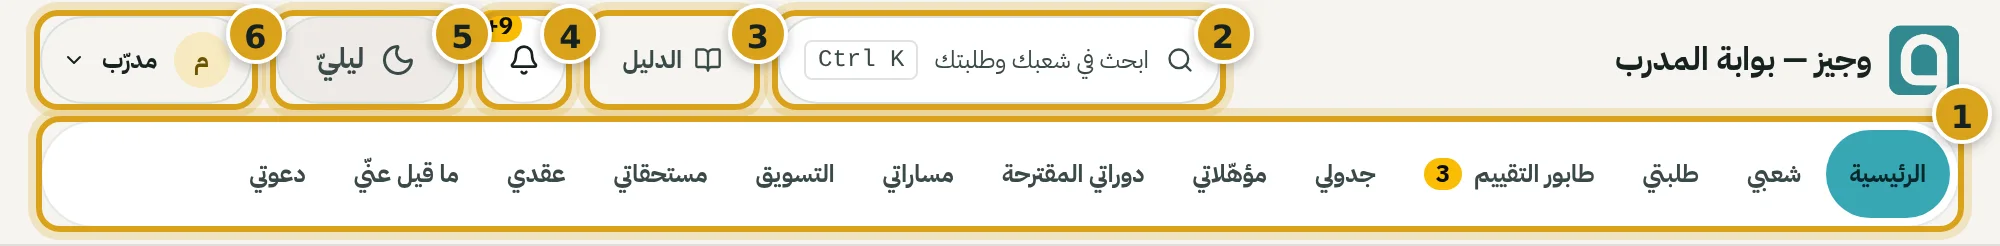
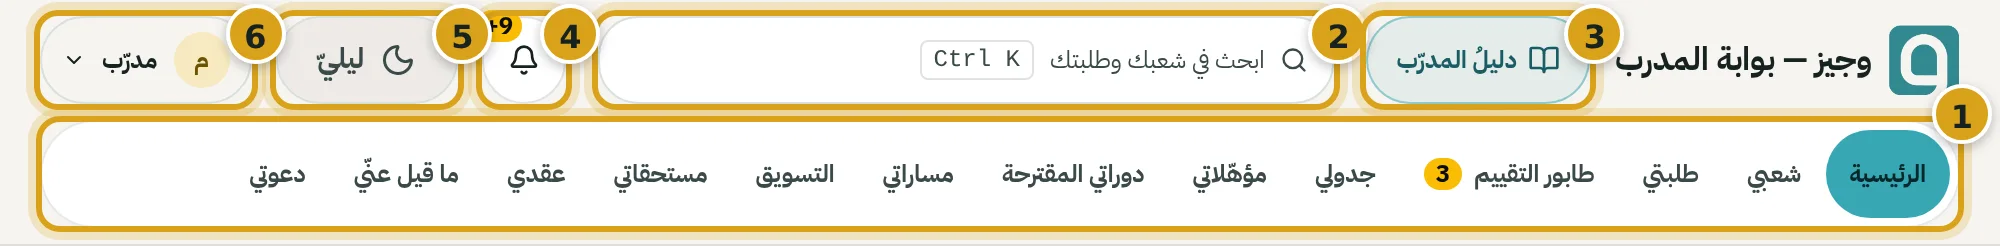
حجزُ المساعدة داخل الشعبة، والدليلُ بجانب اسم البوّابة والبحثُ في الوسط
قرارُ صاحب المنصّة (٣ أكتوبر ٢٠٢٦): «A» — زرُّ حجز جلسةٍ داخل كلّ شعبةٍ
في «شعبي»، و«أوضح مكانَ الدليل، وغيّر مكانَ البحث إلى مكانٍ مناسبٍ احترافيّ».

· CohortWorkspace: شريطُ «تحتاج مساعدةً في تعبئة شعبتك؟» وزرُّ «احجزْ جلسةَ
  تهيئة» ما دامت الخطّةُ بيد المدرّب (مسوّدةً أو مردودةً بملاحظات).
· TrainerLayout: «دليلُ المدرّب» حبّةٌ بارزةٌ بجانب اسم البوّابة، والبحثُ
  حقلٌ في وسط الرأس، ثمّ الجرسُ والمظهرُ والحساب.
· الدليلُ: نصُّ الرأس ومواضعُ الحجز، ولقطاتُه الخمسُ أُعيد التقاطُها.
· حارسان جديدان، رُئي كلٌّ منهما يسقط.

لا تغيّرَ في رقمٍ يُقبض أو يُخصم.

Claude-Session: https://claude.ai/code/session_01KvWc79RrumheVsskoZYsA3

Changed region(s): [[0.279, 0.0, 0.837, 0.4837], [0.279, 0.0285, 0.31, 0.0854]]

diff --git a/src/pages/trainer/TrainerLayout.tsx b/src/pages/trainer/TrainerLayout.tsx
@@ -12,7 +12,6 @@ import { useCallback, useEffect, useRef, useState } from "react";
 import { loadMyPortals } from "@/services/portals";
 import { apiGet } from "@/services/api";
 import { GRADING_CHANGED } from "@/services/grading-signal";
-import Button from "@/components/ui/Button";
 import { TRAINER_GUIDE_PATH } from "@/application/trainer/trainer-guide";
 
 /* ما يقرؤه الإطارُ من `/api/trainer/me` — لا الملفُّ كلُّه.
@@ -210,10 +209,35 @@ export default function TrainerLayout({ children, title }: { children: React.Rea
             صار الشريطُ يقيس ويعرض ما وسعه (٢٧ سبتمبر ٢٠٢٦) — وتفصيلُه في
             `ui/PortalTabs`، وهو نفسُه في بوّابتَي المستشار والمتعلّم. */}
         <div className="mx-auto flex max-w-6xl flex-wrap items-center justify-between gap-y-2 px-5 py-2">
-          <Link to="/" className="flex shrink-0 items-center gap-2">
-            <img src="/logo-mark.png" alt="علامة أكاديمية وجيز" className="h-9 w-9 shrink-0 object-contain" />
-            <span className="hidden font-black sm:block">وجيز — بوابة المدرب</span>
-          </Link>
+          {/* ═══ الدليلُ جنبَ الاسم، والبحثُ في وسط الرأس (٣ أكتوبر ٢٠٢٦) ═══
+
+              قولُ صاحب المنصّة: «أوضِحْ مكانَ الدليل، وغيِّر مكانَ البحث إلى مكانٍ
+              مناسبٍ احترافيّ». كان الدليلُ زرّا شبحيّا بين البحث والجرس يُقرأ أداةً
+              من الأدوات، والبحثُ قبله يسبقه إلى العين. فصار:
+              · **الدليلُ** شارةً ملوّنةً باسمها كاملا («دليلُ المدرّب») لصقَ اسم
+                البوّابة — أوّلَ ما يُرى، وعلى الهاتف كذلك. وليست ذهبيّة: الذهبيُّ
+                فعلُ الصفحة (`one-primary-per-screen`).
+              · **والبحثُ** حقلا في وسط الرأس بين الاسم والأدوات — موضعُه في
+                المحرّرات والبوّابات التي يعرفها الناس — يتّسع لما وسعه. */}
+          <div className="flex shrink-0 items-center gap-3">
+            <Link to="/" className="flex shrink-0 items-center gap-2">
+              <img src="/logo-mark.png" alt="علامة أكاديمية وجيز" className="h-9 w-9 shrink-0 object-contain" />
+              <span className="hidden font-black sm:block">وجيز — بوابة المدرب</span>
+            </Link>
+            {/* ويُفتح في لسانٍ آخر: الدليلُ شرحٌ يُقرأ بجانب البوّابة لا بدلا منها،
+                فلا يغادر المدرّبُ شاشتَه ليقرأ عنها (٣٠ سبتمبر ٢٠٢٦). */}
+            <a href={TRAINER_GUIDE_PATH} target="_blank" rel="noopener" aria-label="دليلُ المدرّب — يُفتح في لسانٍ جديد"
+              className="inline-flex shrink-0 items-center gap-1.5 rounded-full border border-teal/50 bg-teal/10 px-3.5 py-1.5 text-fine font-black text-teal-light-ink transition hover:border-teal hover:bg-teal/20 focus-visible:outline-none focus-visible:ring-2 focus-visible:ring-teal focus-visible:ring-offset-2 focus-visible:ring-offset-paper">
+              <BookOpen className="h-4 w-4 shrink-0" aria-hidden="true" />
+              <span>دليلُ المدرّب</span>
+            </a>
+          </div>
+          {/* بحث سريع Ctrl+K — لجلسة المدرب الحقيقية فقط: يضرب نقطة الخادم المقيدة بإسناداته */}
+          {realTrainer && (
+            <div className="hidden min-w-0 flex-1 justify-center px-4 md:flex">
+              <SearchChip hintAr="ابحث في شعبك وطلبتك" className="w-full max-w-sm" />
+            </div>
+          )}
           <PortalTabs
             tabs={tabs}
             label="تبويبات بوّابة المدرّب"
@@ -221,18 +245,6 @@ export default function TrainerLayout({ children, title }: { children: React.Rea
             className="order-last w-full"
           />
           <div className="flex items-center gap-3">
-            {/* بحث سريع Ctrl+K — لجلسة المدرب الحقيقية فقط: يضرب نقطة الخادم المقيدة بإسناداته */}
-            {realTrainer && (
-              <SearchChip hintAr="ابحث في شعبك وطلبتك" />
-            )}
-            {/* ودليلُ المدرّب في الإطار لا في صفحةٍ واحدة (٢٩ سبتمبر ٢٠٢٦): يصله رابطُه
-                في رسالة اعتماد التوقيع مرّةً، ويحتاجه كلّما وقف عند شاشة. ونبرتُه
-                هادئة — الذهبيُّ فعلُ الصفحة، وهذا أداةٌ في الإطار. */}
-            {/* ويُفتح في لسانٍ آخر: الدليلُ شرحٌ يُقرأ بجانب البوّابة لا بدلا منها،
-                فلا يغادر المدرّبُ شاشتَه ليقرأ عنها (٣٠ سبتمبر ٢٠٢٦). */}
-            <Button as="a" href={TRAINER_GUIDE_PATH} target="_blank" rel="noopener" tone="ghost" size="sm" icon={BookOpen} aria-label="دليلُ المدرّب — يُفتح في لسانٍ جديد">
-              <span>الدليل</span>
-            </Button>
             <NotificationBell audience="trainer" />
             <ThemeToggle />
             <StaffAccountMenu user={user} />

diff --git a/src/data/trainer-guide/content.ts b/src/data/trainer-guide/content.ts
@@ -61,7 +61,7 @@ export const GUIDE_SECTIONS: GuideSection[] = [
         kind: 'steps',
         items: [
           { text: 'ادخل بالبريد نفسِه الذي وقّعتَ به العقد، ومن أيّ صفحةٍ في الموقع تصل إلى [بوّابتك](/trainer).', detail: 'إن كانت صفحةُ البوّابة مفتوحةً عندك قبل الاعتماد فأعِد تحميلَها مرّةً واحدة.' },
-          { text: 'في أعلى كلّ صفحةٍ شريطُ التبويبات، ثمّ البحثُ والدليلُ والإشعاراتُ والمظهرُ وقائمةُ حسابك.' },
+          { text: 'في أعلى كلّ صفحةٍ اسمُ البوّابة وبجانبه هذا الدليل، ثمّ البحثُ في الوسط، ثمّ الإشعاراتُ والمظهرُ وقائمةُ حسابك — وتحتها شريطُ التبويبات.' },
           { text: 'وفوق عنوان كلّ صفحةٍ شريطُ مهلتك ما دمتَ في طور الإعداد — تفصيلُه في [خمسة أيّامك الأولى](#materials).' },
         ],
       },
@@ -108,7 +108,7 @@ export const GUIDE_SECTIONS: GuideSection[] = [
           { text: 'افتح «مؤهّلاتي». تحت «دوراتُك قيد الإعداد» كلُّ دورةٍ اخترناها لك، ولكلٍّ زرّان: «اقبلها وابدأ إعدادها» أو «اعتذرْ عنها».', detail: 'الاعتذارُ يطلب سببا قصيرا يقرؤه من اختار لك الدورة، ولا يُحسَب عليك.' },
           { text: 'حين تقبل دورةً تُنشأ لها شعبةُ إعدادٍ في «شعبي» باسم الدورة — مثلا «اسمُ الدورة — شعبة ١» — وأنت مدرّبُها. افتحها من زرّ «افتح شعبتَها في «شعبي»».', detail: 'وإن كنتَ كتبتَ موادَّ لها في «مؤهّلاتي» قبل ٢ أكتوبر ٢٠٢٦ وجدتَها منقولةً إليها: محاورَك ورابطَك ومصادرَك ومهمّتَك.' },
           { text: 'عبّئ الشعبةَ بخطواتها الستّ — كما في [الشعبة من الداخل](#workspace) — ثمّ أرسلها من خطوتها الأخيرة.' },
-          { text: 'إن أردت من يساعدك في ترتيب محاورك فاحجز جلسةَ التهيئة من «مؤهّلاتي» أو من [آخر هذا الدليل](#help).', detail: 'حضورُها حقٌّ لك لا التزامٌ عليك، ولا يوقف مهلتَك ولا يمدّها.' },
+          { text: 'إن أردت من يساعدك في ترتيب محاورك فاحجز جلسةَ التهيئة من داخل شعبتك نفسِها، أو من «مؤهّلاتي»، أو من [آخر هذا الدليل](#help).', detail: 'حضورُها حقٌّ لك لا التزامٌ عليك، ولا يوقف مهلتَك ولا يمدّها.' },
           { text: 'حين ترسل آخرَ شعبةٍ تتجمّد مهلتُك بنفسها — لا زرَّ تضغطه — ولا يُحسب عليك وقتُ مراجعتنا.' },
         ],
       },

diff --git a/src/pages/trainer/CohortWorkspace.tsx b/src/pages/trainer/CohortWorkspace.tsx
@@ -49,7 +49,7 @@
 import { Fragment, useCallback, useEffect, useRef, useState } from "react";
 import { Link, useParams } from "react-router";
 import {
-  ArrowLeft, ArrowRight, BookMarked, BookOpen, CalendarDays, Check, ChevronDown, ChevronUp, ClipboardCheck, FileText, GraduationCap, Film, IdCard, Link2, Loader2, Lock, Send, Sparkles,
+  ArrowLeft, ArrowRight, BookMarked, BookOpen, CalendarDays, CalendarPlus, Check, ChevronDown, ChevronUp, ClipboardCheck, FileText, GraduationCap, Film, IdCard, Link2, Loader2, Lock, Send, Sparkles,
 } from "lucide-react";
 import TrainerLayout from "./TrainerLayout";
 import TrainerSchedule from "./TrainerSchedule";
@@ -74,6 +74,7 @@ import { ReviewNotesBanner, StageReviewNote } from "@/components/ReviewNotes";
 import { toast, toastError } from "@/components/Toast";
 import { Panel, Bar, Card, Inset } from "@/components/ui/Surface";
 import { PREP_NOTICE_AR, usePrepCohorts } from "@/components/trainer/usePrepCohorts";
+import { ORIENTATION_BOOKING_URL, ORIENTATION_CTA_AR } from "@/application/trainer/orientation-session";
 import Button from "@/components/ui/Button";
 import { controlCls, areaCls, StaffField } from "@/components/FormKit";
 import { fmtDateAr, fmtDateTimeAr } from "@/utils/format";
@@ -931,6 +932,19 @@ export default function CohortWorkspace() {
       {/* شعبةُ الإعداد تقول ما هي — فلا يظنّها شعبةً مفتوحةً للتسجيل (٢ أكتوبر ٢٠٢٦) */}
       {prepIds.has(ws.cohort.id) && (
         <Inset tone="accent" className="mb-4 p-3.5 text-read leading-7">{PREP_NOTICE_AR}</Inset>
+      )}
+
+      {/* ═══ وحجزُ المساعدة حيث تُعبَّأ الشعبة (٣ أكتوبر ٢٠٢٦) ═══
+          قرارُ صاحب المنصّة («A»): كان رابطُ جلسة التهيئة في «مؤهّلاتي» والرسالة
+          والدليل — والتعبئةُ هنا، وهنا يقف المدرّبُ حين يحتاجها. فيُعرض ما دامت
+          الخطّةُ بيده (مسوّدةً أو مردودةً بملاحظات)، للنشط ومن في الطور معا. */}
+      {(!ws.plan || ws.plan.status === "draft" || ws.plan.status === "changes_requested") && (
+        <Inset className="mb-4 flex flex-wrap items-center justify-between gap-3 px-4 py-2.5">
+          <p className="text-read leading-7 text-muted-foreground">تحتاج مساعدةً في تعبئة شعبتك؟ احجز جلسةً معنا في الوقت الذي يناسبك.</p>
+          <Button as="a" href={ORIENTATION_BOOKING_URL} target="_blank" rel="noreferrer noopener" size="sm" icon={CalendarPlus}>
+            {ORIENTATION_CTA_AR}
+          </Button>
+        </Inset>
       )}
 
       {/* ═══ الشريطُ سلّمٌ بأسمائه، وزرٌّ مضاءٌ واحد (٢٧ سبتمبر ٢٠٢٦) ═══

diff --git a/src/tests/trainer/guide-not-portal.test.ts b/src/tests/trainer/guide-not-portal.test.ts
@@ -68,3 +68,16 @@ describe('④ الفهرسُ أجزاء', () => {
     expect(GUIDE).toMatch(/label: shortTitle\(s\.title\)/)
   })
 })
+
+/* ═══ والدليلُ يُرى أوّلا (٣ أكتوبر ٢٠٢٦) ═══
+   قولُ صاحب المنصّة: «أوضِحْ مكانَ الدليل، وغيِّر مكانَ البحث». فالدليلُ شارةٌ
+   باسمها الكامل لصقَ اسم البوّابة قبل البحث، لا زرٌّ شبحيٌّ بين الأدوات. */
+describe('مكانُ الدليل في رأس البوّابة', () => {
+  it('باسمه الكامل، قبل البحث، ولا نبرةَ شبحٍ له', () => {
+    const at = LAYOUT.indexOf('href={TRAINER_GUIDE_PATH}')
+    expect(at, 'لا رابطَ للدليل في الرأس').toBeGreaterThan(-1)
+    expect(at, 'البحثُ يسبق الدليلَ في الرأس').toBeLessThan(LAYOUT.indexOf('<SearchChip'))
+    expect(LAYOUT.slice(at, at + 900)).toContain('دليلُ المدرّب</span>')
+    expect(LAYOUT.slice(at - 200, at + 900), 'عاد الدليلُ زرّا شبحيّا').not.toMatch(/tone="ghost"/)
+  })
+})

diff --git a/src/tests/trainer/orientation-booking-link.test.ts b/src/tests/trainer/orientation-booking-link.test.ts
@@ -116,3 +116,16 @@ describe('رابطُ جلسة التهيئة في «موادُّ دوراتك»'
     expect(PANEL).toMatch(/\{inSetup && !underReview && \([\s\S]{0,300}?href=\{ORIENTATION_BOOKING_URL\}/)
   })
 })
+
+/* ═══ وفي الشعبة نفسِها (٣ أكتوبر ٢٠٢٦) ═══
+   قرارُ صاحب المنصّة («A»): التعبئةُ في «شعبي»، فرابطُ المساعدة هناك — ما دامت
+   الخطّةُ بيده (مسوّدةً أو مردودة). */
+describe('رابطُ جلسة التهيئة في الشعبة', () => {
+  const WS = readFileSync(join(process.cwd(), 'src/pages/trainer/CohortWorkspace.tsx'), 'utf8')
+    .replace(/\{?\/\*[\s\S]*?\*\/\}?/g, '')
+
+  it('زرٌّ يُنقر إلى الرابط نفسِه ما دامت الخطّةُ تُعبَّأ', () => {
+    expect(WS).toMatch(/ws\.plan\.status === "changes_requested"\) && \([\s\S]{0,400}?href=\{ORIENTATION_BOOKING_URL\}[^>]*target="_blank"/)
+    expect(WS).toContain('{ORIENTATION_CTA_AR}')
+  })
+})

diff --git a/src/components/SearchChip.tsx b/src/components/SearchChip.tsx
@@ -46,7 +46,7 @@ export default function SearchChip({ hintAr, className = '' }: {
           مبتورٌ في زرٍّ هو بعينه ما شُكي منه — «شكلٌ غبيّ» يبدأ من هنا. */}
       <span className="whitespace-nowrap text-start">{hintAr}</span>
       {/* المفتاحُ في الطرف الأقصى: لا يلتصق بالكلمة فيُقرأ امتدادا لها */}
-      <kbd className="shrink-0 rounded border border-white/15 px-1.5 font-mono text-fine" dir="ltr">Ctrl K</kbd>
+      <kbd className="ms-auto shrink-0 rounded border border-white/15 px-1.5 font-mono text-fine" dir="ltr">Ctrl K</kbd>
     </button>
   )
 }

diff --git a/src/data/trainer-guide/shots.ts b/src/data/trainer-guide/shots.ts
@@ -86,7 +86,7 @@ export const GUIDE_SHOTS: Record<string, { w: number; h: number }> = {
   },
   "prep-panel": {
     "w": 2200,
-    "h": 1353
+    "h": 2615
   },
   "proposal-card": {
     "w": 2200,
